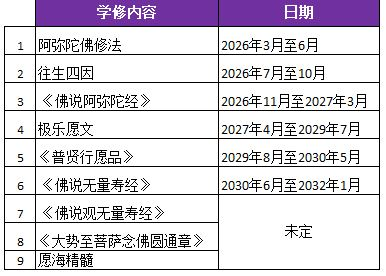
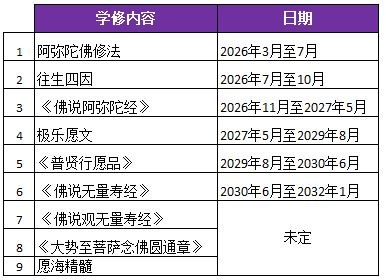
Update Post “2026-01-06-净土班：阿弥陀佛修法-2026年3月1日开始-至6月）”

Changed region(s): [[0.0, 0.0, 0.9948, 0.9855], [0.715, 0.8116, 0.8083, 0.8696]]

diff --git a/content/posts/2026-01-06-净土班：阿弥陀佛修法-2026年3月1日开始-至6月）.md b/content/posts/2026-01-06-净土班：阿弥陀佛修法-2026年3月1日开始-至6月）.md
@@ -31,77 +31,33 @@ attachments: ""
 
 ## 学习安排
 
-![](/f/up/净土学习表.jpg)
+![]()
 
 [](/f/up/入行论-第六品安排.xlsx)[](/f/up/入行论-第八品安排.xlsx)
 
 ## 法本[](https://huidengchanxiu.net/refs/rxl/)
 
 * [](https://huidengchanxiu.net/refs/rxl/)[慧灯之光 第二册](https://fohuifayu.com/index.php/huideng-zhiguang/huideng-series/er-ce): [阿弥陀佛修法](https://fohuifayu.com/index.php/huideng-zhiguang/huideng-series/er-ce/209-a00049)
-
-
-
-
+* 
+* 
 
 
 
 ## 参考资料
 
-1. [](/f/up/课程124-入行论ㆍ安忍品讲解.pdf)[入菩萨行论•善说海](https://huidengchanxiu.net/refs/rxl/ssh): [](https://huidengchanxiu.net/refs/rxl/ssh#%E7%AC%AC%E5%85%AD%E5%93%81-%E5%AE%89%E5%BF%8D)[第八品 静虑](https://huidengchanxiu.net/refs/rxl/ssh/#%E7%AC%AC%E5%85%AB%E5%93%81-%E9%9D%99%E8%99%91)
-2. [](https://huidengchanxiu.net/refs/rxl/ssh#%E7%AC%AC%E5%85%AD%E5%93%81-%E5%AE%89%E5%BF%8D)**[《入行论》之修行次第---璀璨日:](https://www.zhihuihai.net/%E5%AD%A6%E4%BD%9B%E4%B9%8B%E5%AE%B6/%E5%88%9D%E7%BA%A7%E8%AF%BE%E7%A8%8B/%E5%85%A5%E8%A1%8C%E8%AE%BA/%E7%A6%85%E4%BF%AE%E5%AE%9E%E4%BF%AE%E5%BC%95%E5%AF%BC)** [【禅修引导09】静虑度](https://www.youtube.com/playlist?list=PLpQ93rK3nqoDXHa8WsrnIOzVLzROepWd6)
-3. [前行实修法:](https://www.riyuebianzhao.com/%E5%88%9D%E7%BA%A7/%E5%8A%A0%E8%A1%8C/%E5%89%8D%E8%A1%8C%E5%AE%9E%E4%BF%AE%E6%B3%95/) [法师辅导丨第84修法：思维变化无常之自性](https://www.riyuebianzhao.com/%E5%88%9D%E7%BA%A7/%E5%8A%A0%E8%A1%8C/%E5%89%8D%E8%A1%8C%E5%AE%9E%E4%BF%AE%E6%B3%95/%E6%B3%95%E5%B8%88%E8%BE%85%E5%AF%BC-%E4%B8%A8%E5%89%8D%E8%A1%8C%E5%AE%9E%E4%BF%AE%E6%B3%95%E7%AC%AC84%E4%BF%AE%E6%B3%95%E6%80%9D%E7%BB%B4%E5%8F%98%E5%8C%96%E6%97%A0%E5%B8%B8%E4%B9%8B%E8%87%AA%E6%80%A7) 至 [第89修法：真实修持静虑](https://www.riyuebianzhao.com/%E5%88%9D%E7%BA%A7/%E5%8A%A0%E8%A1%8C/%E5%89%8D%E8%A1%8C%E5%AE%9E%E4%BF%AE%E6%B3%95/%E6%B3%95%E5%B8%88%E8%BE%85%E5%AF%BC-%E4%B8%A8%E5%89%8D%E8%A1%8C%E5%AE%9E%E4%BF%AE%E6%B3%95%E7%AC%AC89%E4%BF%AE%E6%B3%95%E7%9C%9F%E5%AE%9E%E4%BF%AE%E6%8C%81%E9%9D%99%E8%99%91)[](https://www.riyuebianzhao.com/初级/加行/前行实修法/法师辅导-丨前行实修法第82修法无缘之安忍)
-4. 视频: [《入菩萨行论》简要版13](https://fohuifayu.com/index.php/huideng-jiangtang/fojiao-xinlixue/rupusaxinglun-jianyaoban/9312-l23018) 至 [《入菩萨行论》简要版14](https://fohuifayu.com/index.php/huideng-jiangtang/fojiao-xinlixue/rupusaxinglun-jianyaoban/9313-l23019)
-5. [佛法融入生活2 生活中的六波罗蜜多](https://fohuifayu.com/index.php/huideng-zhiguang/dianzi-congshu/fofa-rongru-shenghuo/fofa-rongru-shenghuo-2): [](https://fohuifayu.com/index.php/huideng-zhiguang/dianzi-congshu/fofa-rongru-shenghuo/fofa-rongru-shenghuo-2/8598-a00511)[第五章 禅定波罗蜜多](https://fohuifayu.com/index.php/huideng-zhiguang/dianzi-congshu/fofa-rongru-shenghuo/fofa-rongru-shenghuo-2/8600-a00513)
-6. [问道图书](https://fohuifayu.com/index.php/huideng-zhiguang/wendao): [《慧灯·问道》第一季](https://fohuifayu.com/index.php/huideng-zhiguang/wendao) - [寻求内心的平静](https://fohuifayu.com/index.php/huideng-zhiguang/wendao/3062-a00208)
-7. [](https://fohuifayu.com/index.php/huideng-zhiguang/dianzi-congshu/chanding-kongxing)[禅定与空性1 禅修要领](https://fohuifayu.com/index.php/huideng-zhiguang/dianzi-congshu/chanding-kongxing)
-8. [经典解读7 心如虚空——《六祖坛经》释义](https://fohuifayu.com/index.php/huideng-zhiguang/dianzi-congshu/jingdian-jiedu/jingdian-jiedu-7): [定慧品](https://fohuifayu.com/index.php/huideng-zhiguang/dianzi-congshu/jingdian-jiedu/jingdian-jiedu-7/8577-a00190)
-9. 视频: [《六祖坛经》释义6 定慧品1](https://fohuifayu.com/index.php/huideng-jiangtang/jingdian-jiedu/liuzu-tanjing/4116-l19029)
-10. 视频: [《六祖坛经》释义7 定慧品2](https://fohuifayu.com/index.php/huideng-jiangtang/jingdian-jiedu/liuzu-tanjing/4130-l19030)
-11. 视频: [《六祖坛经》释义8 定慧品3](https://fohuifayu.com/index.php/huideng-jiangtang/jingdian-jiedu/liuzu-tanjing/4131-l19031)
-12. [经典解读7 心如虚空——《六祖坛经》释义](https://fohuifayu.com/index.php/huideng-zhiguang/dianzi-congshu/jingdian-jiedu/jingdian-jiedu-7): [坐禅品](https://fohuifayu.com/index.php/huideng-zhiguang/dianzi-congshu/jingdian-jiedu/jingdian-jiedu-7/8578-a00191)
-13. 视频: [《六祖坛经》释义9 坐禅品1](https://fohuifayu.com/index.php/huideng-jiangtang/jingdian-jiedu/liuzu-tanjing/4167-l19032)
-14. 视频: [《六祖坛经》释义10 坐禅品2](https://fohuifayu.com/index.php/huideng-jiangtang/jingdian-jiedu/liuzu-tanjing/4196-l19033)
-15. [课程055 六祖坛经讲解](https://drive.google.com/file/d/19lWL2bp9wtzPwVLJ-48vZIvNiv2Bns4Z/view?usp=drive_link)
-16. [《六祖坛经释》（1-40）](https://www.zhihuihai.net/%E5%AD%A6%E4%BD%9B%E4%B9%8B%E5%AE%B6/%E5%88%9D%E7%BA%A7%E8%AF%BE%E7%A8%8B/%E5%AD%A6%E7%BB%8F/%E5%85%AD%E7%A5%96%E5%9D%9B%E7%BB%8F)[](https://fohuifayu.com/index.php/huideng-zhiguang/dianzi-congshu/jingdian-jiedu/jingdian-jiedu-7/8578-a00191)
-17. [修习禅定](https://fohuifayu.com/index.php/xuefo-daohang/xiuxi-chanding)
-18. 视频: [禅定](https://fohuifayu.com/index.php/huideng-jiangtang/fofa-jianxiu/chan-ding)
-19. 视频: [禅修](https://fohuifayu.com/index.php/huideng-jiangtang/fojiao-xinlixue/chanxiu)
-20. [开示011 冥想与健康](https://drive.google.com/file/d/1htjDKo96Mn1iR6gZMoBmdLXoTH1-_2lz/view?usp=drive_link)
-21. [课程098 禅修教言讲解](https://drive.google.com/file/d/19ZhRUpXfW087rTiIuq3oKuaEARdrJDIP/view?usp=drive_link)
-22. [禅修指南](https://www.zhihuihai.net/%E5%AD%A6%E4%BD%9B%E4%B9%8B%E5%AE%B6/%E9%AB%98%E7%BA%A7%E8%AF%BE%E7%A8%8B/%E4%BF%AE%E5%BF%83/%E7%A6%85%E4%BF%AE%E6%8C%87%E5%8D%97)
-23. [禅修深义密要](https://www.zhihuihai.net/%E6%99%BA%E6%82%B2%E5%AD%A6%E5%A0%82/2024%E5%AD%A6%E5%A0%82/%E7%A6%85%E4%BF%AE%E6%B7%B1%E4%B9%89%E5%AF%86%E8%A6%81/)
-24. [日常禅修窍诀](https://www.zhihuihai.net/%E6%99%BA%E6%82%B2%E5%AD%A6%E5%A0%82/%E5%BE%80%E5%B9%B4%E4%BC%A0%E6%B3%95/%E6%97%A5%E5%B8%B8%E7%A6%85%E4%BF%AE%E7%AA%8D%E8%AF%80/)
-25. [禅修开示与瑜伽禅系列](https://www.zhihuihai.net/%E5%AE%81%E7%8E%9B%E6%B3%95%E8%84%89%E4%BC%A0%E6%89%BF/%E7%B4%A2%E8%BE%BE%E5%90%89%E5%A0%AA%E5%B8%83%E4%BB%81%E6%B3%A2%E5%88%87/%E6%BB%A1%E5%BF%83%E6%AC%A2%E5%96%9C%E5%A0%AA%E5%B8%83%E5%8E%9F%E5%88%9B/%E4%B8%8E%E7%A6%85%E7%BB%93%E7%BC%98/)
-26. [劝修寂止之语](https://www.zhihuihai.net/%E6%99%BA%E6%82%B2%E5%AD%A6%E5%A0%82/2024%E5%AD%A6%E5%A0%82/%E5%8A%9D%E4%BF%AE%E5%AF%82%E6%AD%A2%E4%B9%8B%E8%AF%AD/)
-27. [禅修类答疑](https://www.zhihuihai.net/%E7%AD%94%E7%96%91%E4%B8%93%E9%A2%98/%E5%A0%AA%E5%B8%83%E7%AD%94%E7%96%91/%E7%A6%85%E4%BF%AE%E7%B1%BB%E7%AD%94%E7%96%91/)
-28. [禅悟开示](https://www.zhihuihai.net/%E6%B3%95%E9%9B%A8%E6%99%AE%E6%B6%A6/%E7%BD%91%E7%BB%9C%E5%BC%80%E7%A4%BA/%E7%A6%85%E6%82%9F%E5%BC%80%E7%A4%BA)
-29. 视频: [修禅定要有哪些前行准备？](https://fohuifayu.com/index.php/shipin-jingcui/wenda-zhailu/2483-V16025-V03?title=)[](https://fohuifayu.com/index.php/huideng-jiangtang/fofa-jianxiu/ruhe-duizhi-fannao/767-l12042?title=%E5%AE%89%E5%BF%8D)
-30. 视频[](https://fohuifayu.com/index.php/huideng-jiangtang/fofa-jianxiu/xiuxing-cidi/4007-l15029): [缓解心里的焦虑](https://fohuifayu.com/index.php/huideng-jiangtang/rensheng-zhihui/zhihui-xilie/2055-l17027?title=%E7%A6%85%E5%AE%9A)
-31. 视频: [浮躁抑郁的杀手——禅定](https://fohuifayu.com/index.php/shipin-jingcui/jingcai-shipin/1536-Y00038?title=)
-32. 视频: [日常生活中如何修禅定？](https://fohuifayu.com/index.php/shipin-jingcui/wenda-zhailu/899-V00008?title=)[](https://fohuifayu.com/index.php/huideng-jiangtang/fofa-jianxiu/ruhe-duizhi-fannao/589-l12007?title=)
-33. 视频: [修加行的同时可以修禅定吗？](https://fohuifayu.com/index.php/shipin-jingcui/wenda-zhailu/5719-V17026-V04?title=)[](https://fohuifayu.com/index.php/huideng-jiangtang/huanqiu-xilie/mei-guo/2958-l18045?title=)
-34. 视频: [发呆和禅定相似吗？](https://fohuifayu.com/index.php/shipin-jingcui/wenda-zhailu/5706-V19013-V06?title=)[](https://fohuifayu.com/index.php/huideng-jiangtang/huanqiu-xilie/mei-guo/2960-l18054?title=)
-35. 视频: [坐上修禅定前期工作三要点（一） 坐姿](https://fohuifayu.com/index.php/shipin-jingcui/jingcai-shipin/5616-Y17005-Y08?title=)[](https://fohuifayu.com/index.php/huideng-jiangtang/huanqiu-xilie/mei-guo/2943-l18055?title=)
-36. 视频: [坐上修禅定前期工作三要点（二） 排污气](https://fohuifayu.com/index.php/shipin-jingcui/jingcai-shipin/5617-Y17005-Y09?title=)[](https://fohuifayu.com/index.php/shipin-jingcui/wenda-zhailu/3710-V17072-V05?title=)
-37. 视频: [坐上修禅定前期工作三要点（三） 祈祷释迦牟尼佛](https://fohuifayu.com/index.php/shipin-jingcui/jingcai-shipin/5618-Y17005-Y10?title=)[](https://fohuifayu.com/index.php/shipin-jingcui/jingcai-shipin/4531-Y14013-Y05?title=)
-38. 视频: [标准的禅定—止观双运](https://fohuifayu.com/index.php/shipin-jingcui/jingcai-shipin/5552-Y17005-Y03?title=)[](https://fohuifayu.com/index.php/shipin-jingcui/wenda-zhailu/3557-V17017-V10?title=)
-39. 视频: [靠佛法的止观才能看到世界的真相吗？](https://fohuifayu.com/index.php/shipin-jingcui/wenda-zhailu/5529-V19014-V03?title=%E7%A6%85%E5%AE%9A)[](https://fohuifayu.com/index.php/shipin-jingcui/wenda-zhailu/9551-v21001-v01?title=%E5%97%94%E6%81%A8)
-40. 视频: [般若禅定为何能抗拒痛苦？](https://fohuifayu.com/index.php/shipin-jingcui/wenda-zhailu/5161-V19027-V03?title=)
-41. 视频: [禅修为什么能消除烦恼和痛苦？](https://fohuifayu.com/index.php/shipin-jingcui/wenda-zhailu/9278-v22002-v14)[](https://fohuifayu.com/index.php/shipin-jingcui/wenda-zhailu/5161-V19027-V03?title=)[](https://fohuifayu.com/index.php/shipin-jingcui/wenda-zhailu/9293-w21023-v101?title=)
-42. 视频: [禅定可以帮助沉迷游戏的孩子吗？](https://fohuifayu.com/index.php/shipin-jingcui/wenda-zhailu/4605-V19017-V01?title=)
-43. 视频: [禅定是止，智慧是观？](https://fohuifayu.com/index.php/shipin-jingcui/wenda-zhailu/10735-v22005-v09?title=)
-44. 视频: [先修止还是先修观？](https://fohuifayu.com/index.php/shipin-jingcui/wenda-zhailu/10893-v22006-v01)[](https://fohuifayu.com/index.php/shipin-jingcui/wenda-zhailu/10893-v22006-v01)[](https://fohuifayu.com/index.php/shipin-jingcui/wenda-zhailu/10735-v22005-v09?title=)[](https://fohuifayu.com/index.php/shipin-jingcui/wenda-zhailu/1921-V00106?title=)
-45. 视频: [修禅定都有哪些好处?](https://fohuifayu.com/index.php/shipin-jingcui/wenda-zhailu/9765-v21009-v07?title=)
-46. 视频: [禅定与正知](https://fohuifayu.com/index.php/shipin-jingcui/jingcai-shipin/9673-y15075-y06?title=)[](https://fohuifayu.com/index.php/shipin-jingcui/wenda-zhailu/9765-v21009-v07?title=)[](https://fohuifayu.com/index.php/shipin-jingcui/wenda-zhailu/10241-v22004-v04)
-47. 视频: [禅定与正念](https://fohuifayu.com/index.php/shipin-jingcui/jingcai-shipin/9686-y15075-y07?title=)
-48. 视频: [禅定状态和深度催眠状态，是一回事吗？](https://fohuifayu.com/index.php/shipin-jingcui/wenda-zhailu/9527-w22016-v05?title=)[](https://fohuifayu.com/index.php/huideng-jiangtang/huanqiu-xilie/mei-guo/2369-l17033)
-49. 视频: [禅定会提高感官功能吗？](https://fohuifayu.com/index.php/shipin-jingcui/wenda-zhailu/9517-w22016-v04?title=)[](https://fohuifayu.com/index.php/shipin-jingcui/wenda-zhailu/3669-V17023-V02?title=%E5%97%94%E6%81%A8)
-50. 视频: [如何用禅修来解压](https://fohuifayu.com/index.php/huideng-jiangtang/rensheng-zhihui/zhihui-xilie/4223-l19013)[](https://fohuifayu.com/index.php/huideng-jiangtang/huanqiu-xilie/malai-xiya/1828-l17024)
-51. 视频: [心灵的奢侈品系列课程3 禅与都市生活](https://fohuifayu.com/index.php/huideng-jiangtang/rensheng-zhihui/tisheng-xinling/850-l15092)
-52. 视频: [禅与心身健康](https://fohuifayu.com/index.php/huideng-jiangtang/rensheng-zhihui/zhihui-xilie/4224-l19010)
-53. [菩提道次第广论讲记 (7)](https://huidengchanxiu.net/refs/ptdcdgl/7)：[](https://huidengchanxiu.net/refs/ptdcdgl/7#%E4%B8%8A%E5%A3%AB%E9%81%93-%E5%BF%8D%E6%B3%A2%E7%BD%97%E8%9C%9C%E7%9B%AE%E5%BD%95)[上士道-静虑波罗蜜](https://huidengchanxiu.net/refs/ptdcdgl/7/#%E4%B8%8A%E5%A3%AB%E9%81%93-%E9%9D%99%E8%99%91%E6%B3%A2%E7%BD%97%E8%9C%9C%E7%9B%AE%E5%BD%95)
-54. [六度集经讲记 38](https://www.xianmixuezi.com/%E4%BD%9B%E7%BB%8F%E5%AE%9D%E5%85%B8%E7%B3%BB%E5%88%97/%E5%85%AD%E5%BA%A6%E9%9B%86%E7%BB%8F/%E5%85%AD%E5%BA%A6%E9%9B%86%E7%BB%8F%E8%AE%B2%E8%AE%B0-38) 至 [六度集经讲记 42](https://www.xianmixuezi.com/%E4%BD%9B%E7%BB%8F%E5%AE%9D%E5%85%B8%E7%B3%BB%E5%88%97/%E5%85%AD%E5%BA%A6%E9%9B%86%E7%BB%8F/%E5%85%AD%E5%BA%A6%E9%9B%86%E7%BB%8F%E8%AE%B2%E8%AE%B0-42)
-55. [释迦牟尼佛广传](https://huidengchanxiu.net/refs/cczj/blhl): [](https://huidengchanxiu.net/refs/cczj/blhl#%E4%BA%94-%E5%AE%89%E5%BF%8D%E5%93%81)[八禅定品](https://huidengchanxiu.net/refs/cczj/blhl/#%E5%85%AB%E7%A6%85%E5%AE%9A%E5%93%81)
+1. [](/f/up/课程124-入行论ㆍ安忍品讲解.pdf)[](https://huidengchanxiu.net/refs/rxl/ssh)**[净土｜藏传净土法](https://www.zhihuihai.net/学佛之家/初级课程/净土)**
+2. [净土文库](https://www.xianmixuezi.com/%E5%87%80%E5%9C%9F%E6%96%87%E5%BA%93)
+
+
+
+
+
+
+
+视频: [坐上修禅定前期工作三要点（三） 祈祷释迦牟尼佛](https://fohuifayu.com/index.php/shipin-jingcui/jingcai-shipin/5618-Y17005-Y10?title=)[](https://fohuifayu.com/index.php/shipin-jingcui/jingcai-shipin/4531-Y14013-Y05?title=)
+
+1. [](https://www.xianmixuezi.com/%E5%87%80%E5%9C%9F%E6%96%87%E5%BA%93)
+2. [](https://huidengchanxiu.net/refs/ptdcdgl/7)
 
 [](https://fohuifayu.com/index.php/huideng-jiangtang/fofa-jianxiu/xiuxing-cidi/4007-l15029)
 
